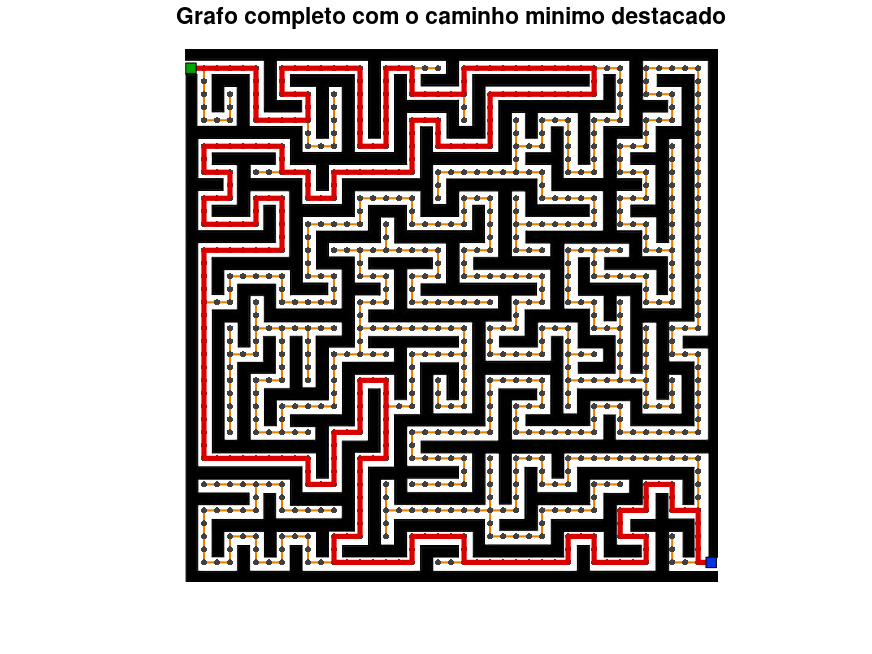
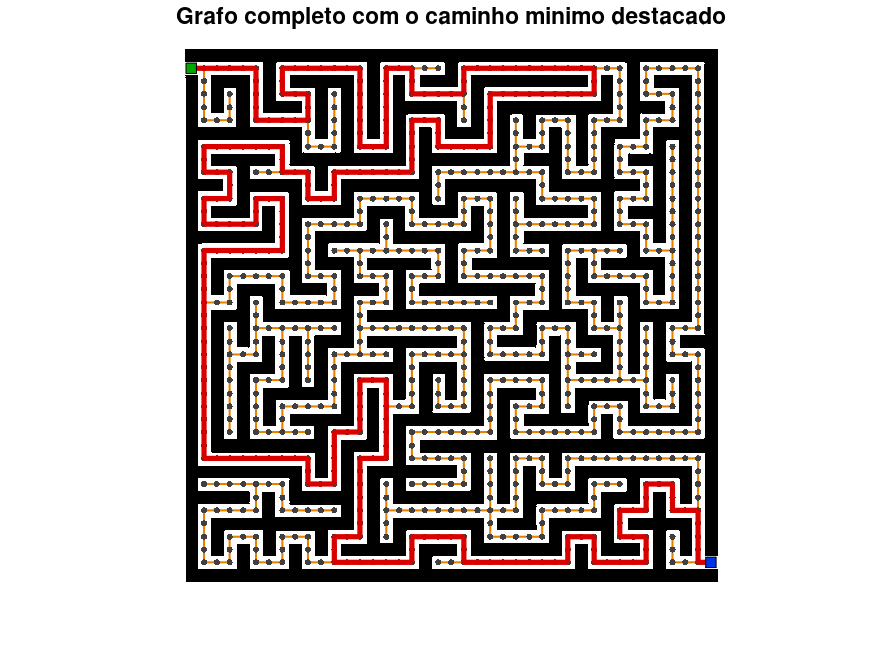
Corrige bug gráfico

Changed region(s): [[0.2167, 0.0917, 0.836, 0.8869]]

diff --git a/src/main.m b/src/main.m
@@ -26,7 +26,7 @@ fprintf("Quantidade de arestas %d\n", qtd_arestas);
 fprintf("Quantidade de vértices %d\n", qtd_vertices);
 
 % Parte 3 - Visualização do grafo (itens a, b e c) e Parte 4 - Formulação como problema de caminho mínimo (item a)
-% [s, t, pos_s, pos_t] = obter_entrada_saida(B, n);
+[s, t, pos_s, pos_t] = obter_entrada_saida(B, n);
 % visualizar_grafo(B, arestas, vertices, s, t, n);
 
 % fprintf(pos_s);
@@ -39,10 +39,10 @@ v = arestas(:, 2);
 
 A = sparse([u; v], [v; u], 1, N, N);
 
-s_coord = [2, 1];
-t_coord = [40, 41];
-s = calcular_id_no(n, s_coord(1), s_coord(2));
-t = calcular_id_no(n, t_coord(1), t_coord(2));
+% s_coord = [2, 1];
+% t_coord = [40, 41];
+s = calcular_id_no(n, pos_s(1), pos_s(2));
+t = calcular_id_no(n, pos_t(1), pos_t(2));
 
 tic;
 [dist, anterior] = dijkstra(A, s);
@@ -71,20 +71,27 @@ fprintf("Tempo do Dijkstra(com min-heap): %.3f\n (1 execução) | %.4f s (media 
 
 % Parte 7- Caminho mínimo sobre a imagem
 
+img = imread("labirinto_41x41.png");
+
 % (a) labirinto original
 figure; imshow(img); title("Labirinto original");
+print("-dpng", "-r150", "labirinto_original.png");
 
 % imagem binaria
 figure; imshow(B); title("Imagem binaria (1 = livre, 0 = parede)");
+print("-dpng", "-r150", "labirinto_binario.png");
 
 % (b) grafo construído sobre o labirinto
 figure; visualizar_grafo(img, arestas, vertices, s, t, n);
 title("Grafo sobre o labirinto");
+print("-dpng", "-r150", "grafo_sobre_labirinto.png");
 
 % (c) apenas o caminho minimo sobre o labirinto
 figure; visualizar_grafo(img, arestas, vertices, s, t, n, caminho, false);
 title(sprintf("Caminho minimo (%d movimentos)", numel(caminho) - 1));
+print("-dpng", "-r150", "caminho_minimo.png");
 
 % (d) grafo completo com o caminho destacado
 figure; visualizar_grafo(img, arestas, vertices, s, t, n, caminho, true);
 title("Grafo completo com o caminho minimo destacado");
+print("-dpng", "-r150", "grafo_e_caminho.png");

diff --git a/src/visualizar_grafo.m b/src/visualizar_grafo.m
@@ -1,4 +1,4 @@
-function visualizar_grafo(img, arestas, vertices, s, t, n_celulas, caminho)
+function visualizar_grafo(img, arestas, vertices, s, t, n_celulas, caminho, mostrar_grafo)
   if nargin < 7
     caminho = [];
   endif
